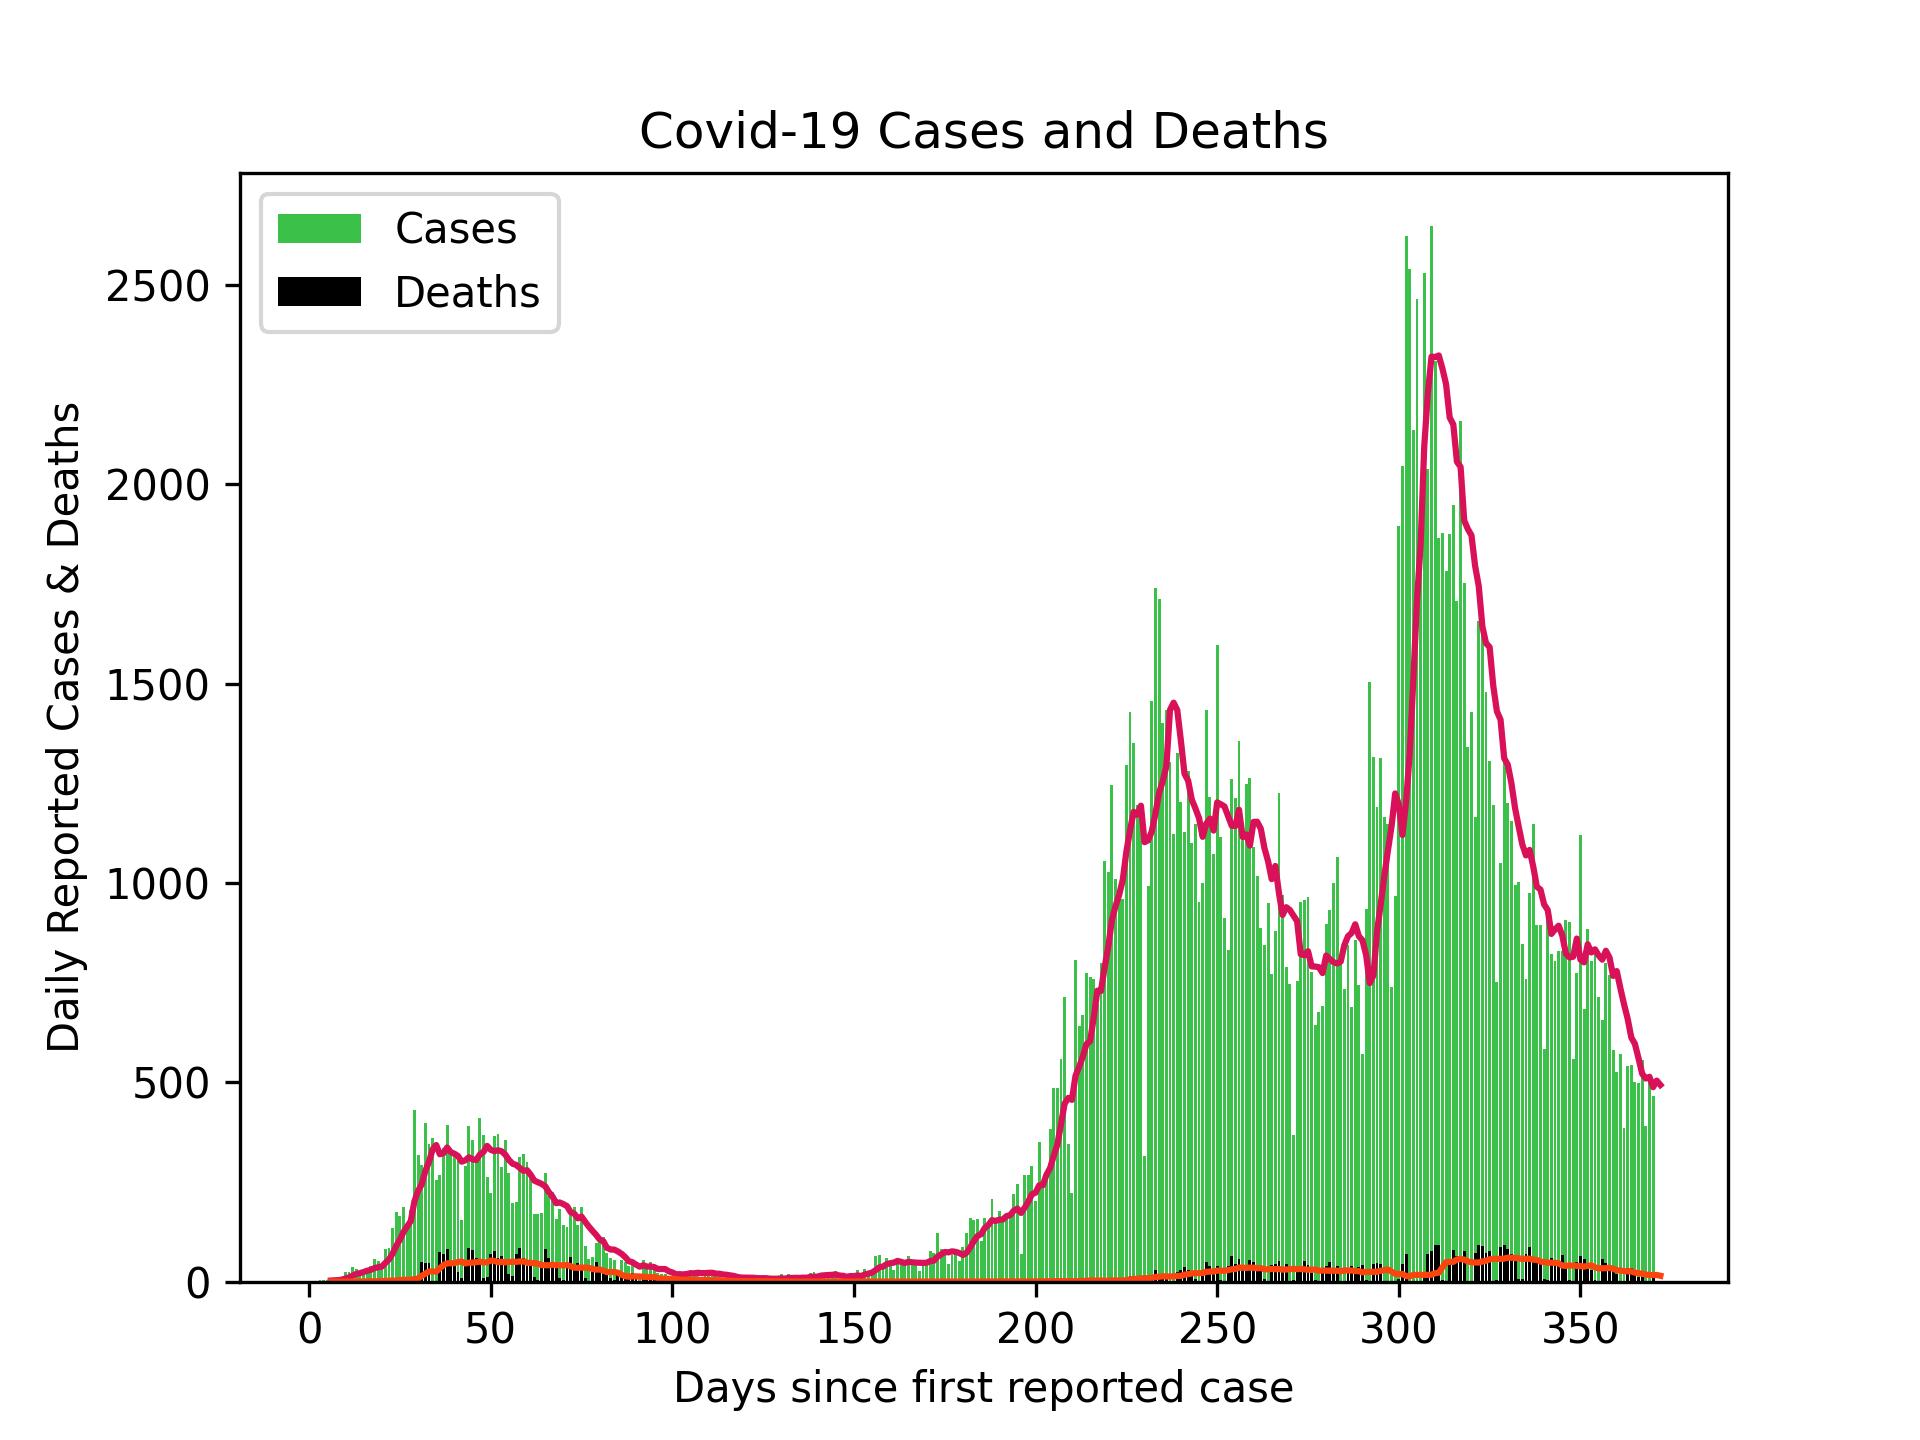
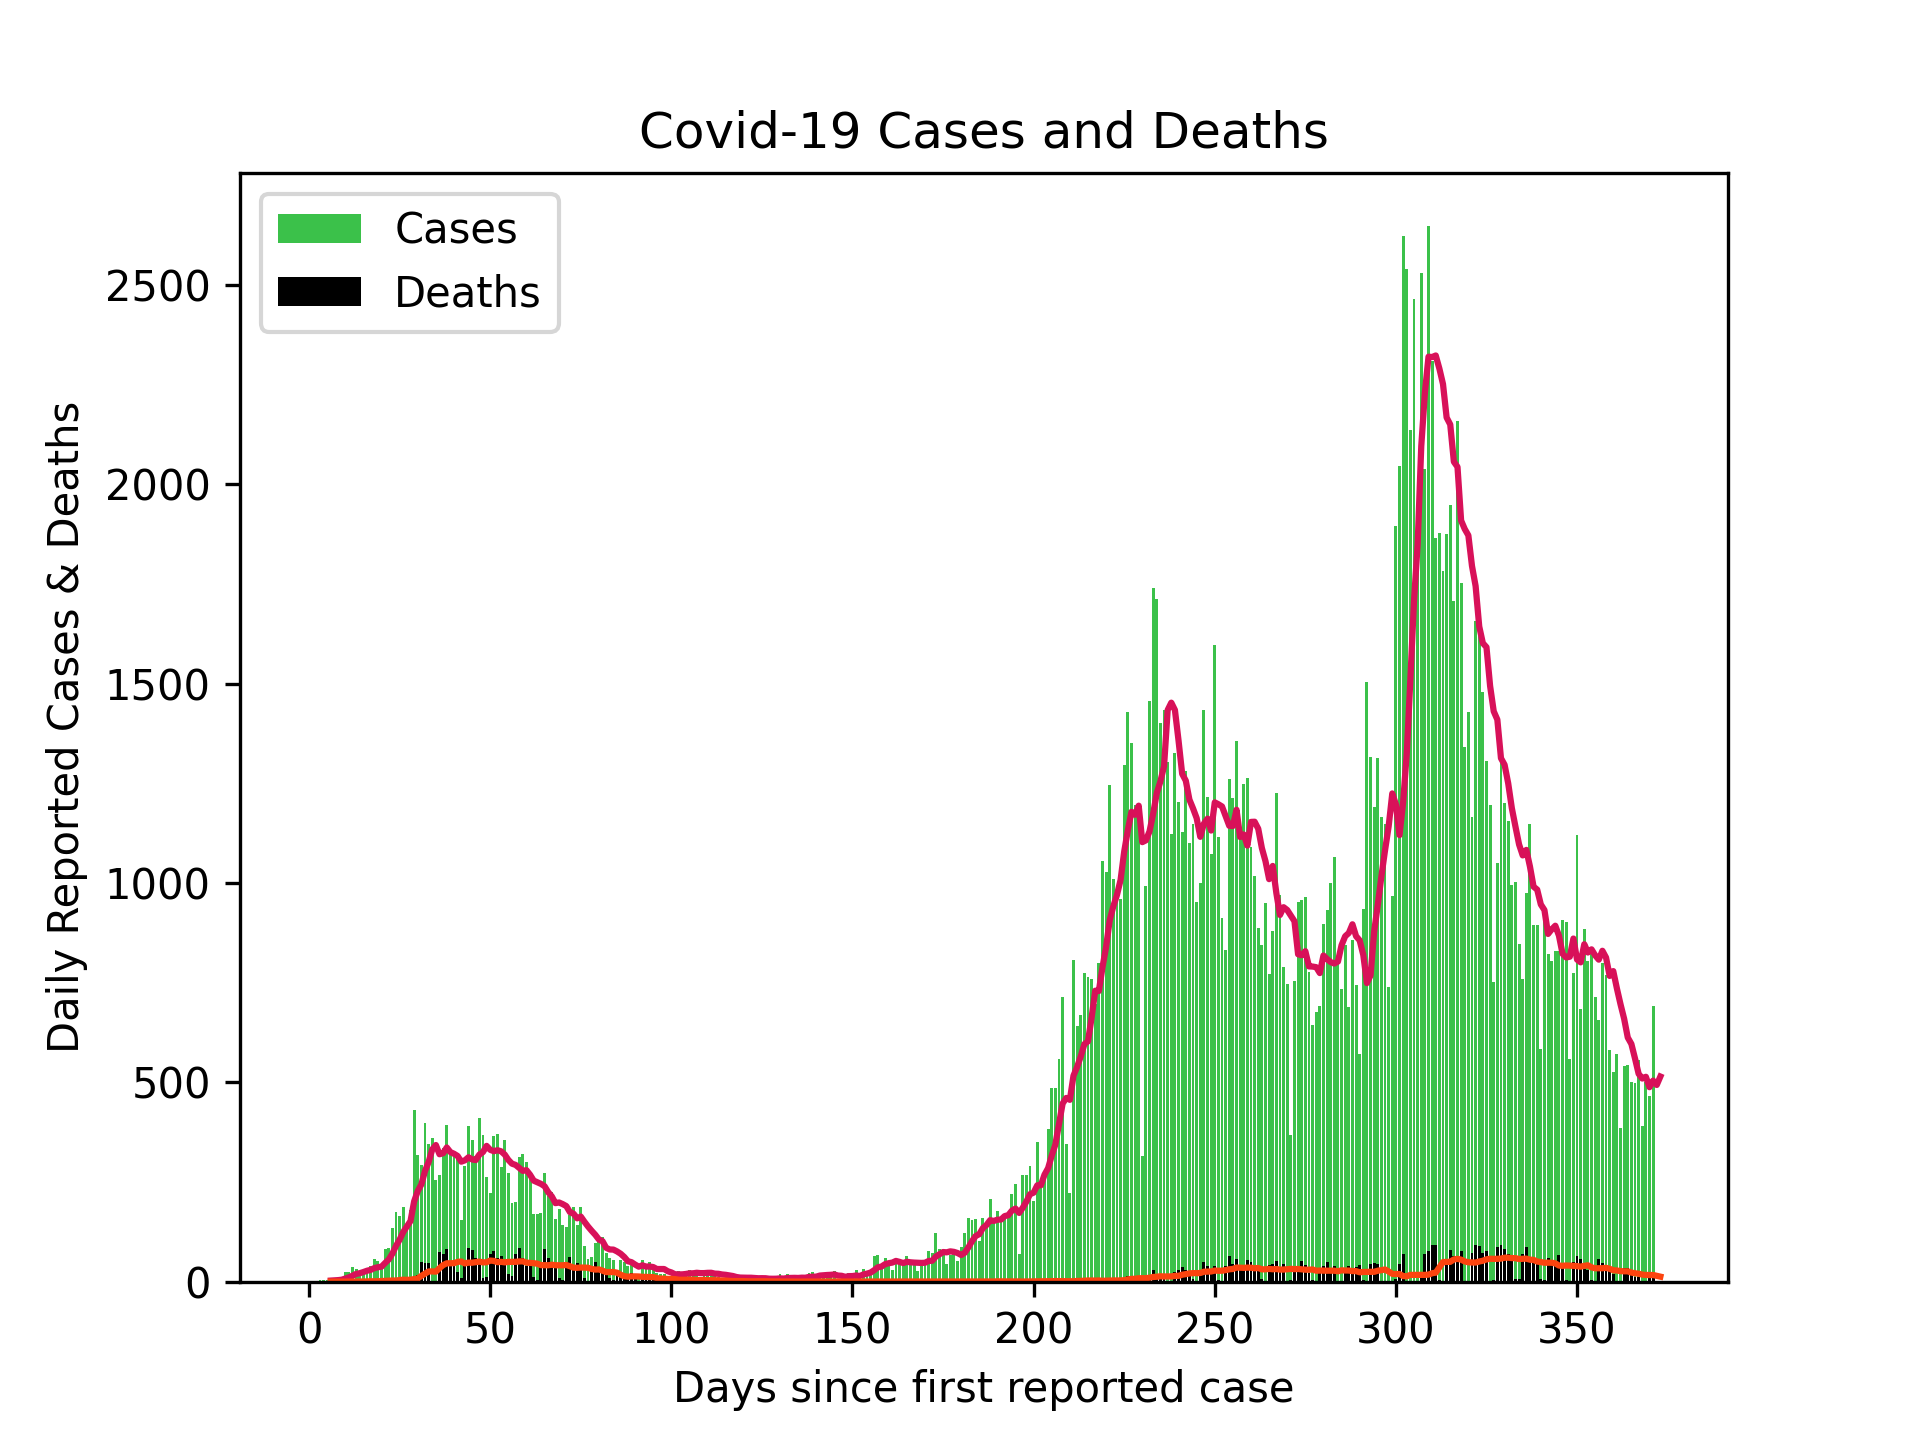
Updated Scottish cases 10/03/21

Changed region(s): [[0.4375, 0.1562, 0.875, 0.9375], [0.2188, 0.7812, 0.3438, 0.9062], [0.3438, 0.9062, 0.375, 0.9375]]

diff --git a/README.md b/README.md
@@ -1,4 +1,4 @@
-# Scottish Cases 09/03/21
+# Scottish Cases 10/03/21
 
 ![alt](scottish_cases.png)
 
